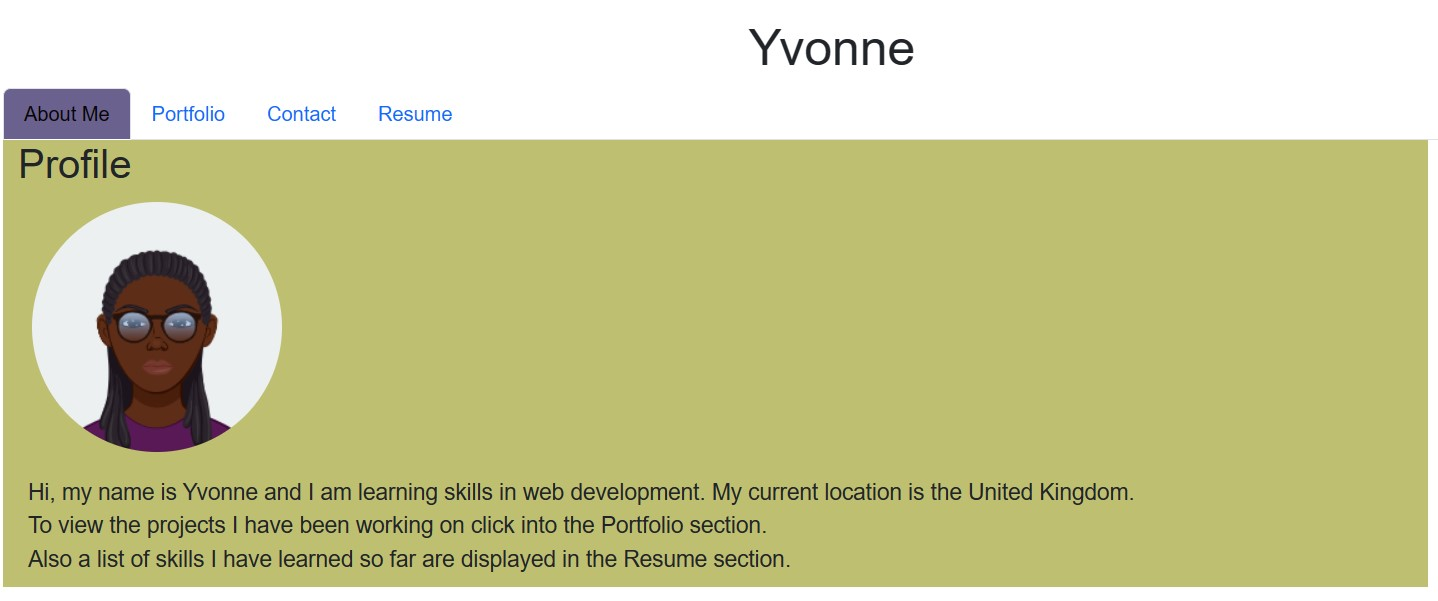
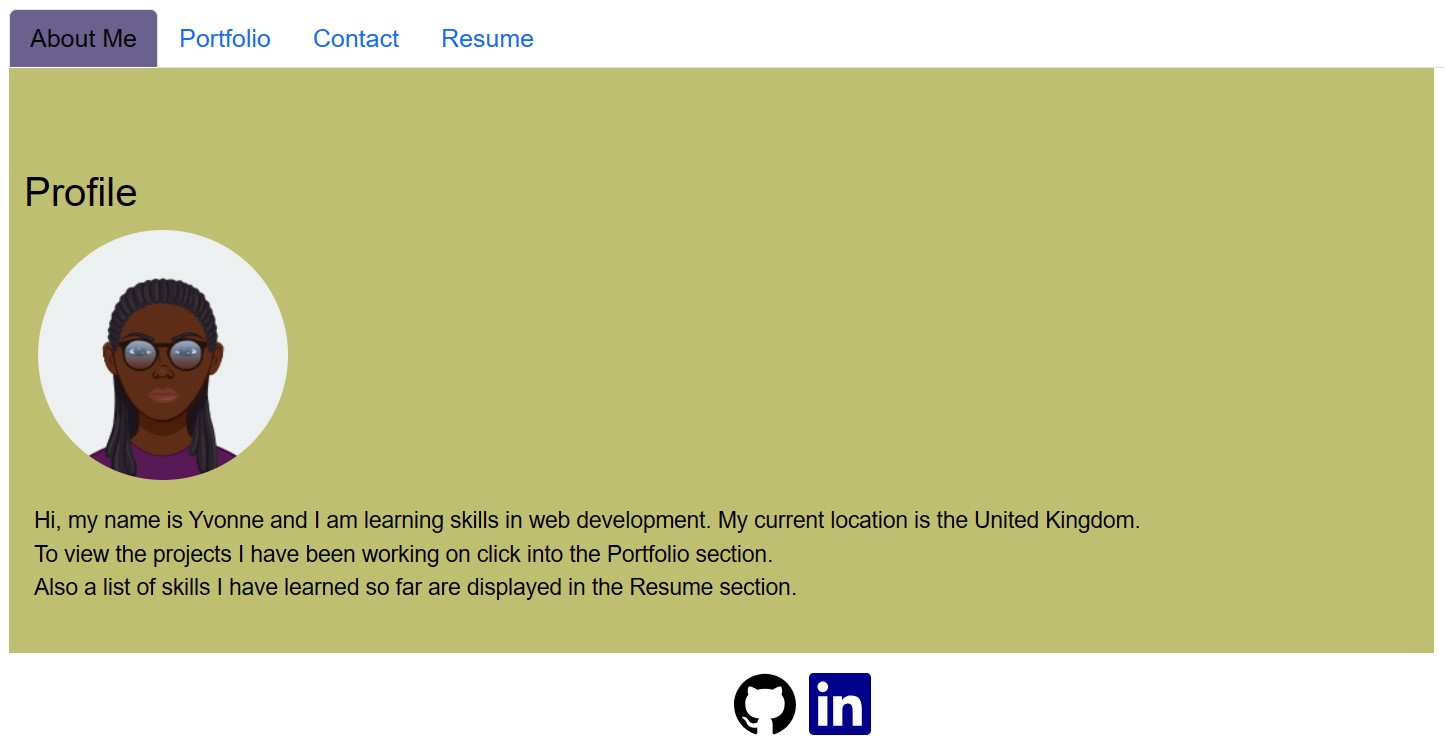
add styling and update README

diff --git a/src/components/App.css b/src/components/App.css
@@ -1,7 +1,6 @@
 .App {
   text-align: left;
   margin: 1.5rem;
-  margin-bottom: 100px;
   font-family: sans-serif;
 }
 
@@ -17,15 +16,18 @@
 }
 
 .App-header {
-  background-color: #282c34;
+  background-color: #7ea24d;
   min-height: 100vh;
   display: flex;
-  flex-direction: column;
+  flex-direction: row;
+  flex-wrap: wrap;
   align-items: center;
   justify-content: center;
-  font-size: calc(10px + 2vmin);
+  font-size: 20px;
   color: white;
-  margin: 1rem;
+  padding: 0.5rem;
+  padding-top: 1.25rem;
+  padding-bottom: 1.25rem;
 }
 
 .App-link {
@@ -65,12 +67,12 @@ p {
 }
 
 .FooterLinks {
-  margin-left: 10px;
-  padding: 10px;
-  position: fixed;
+  padding: 1rem;
+  position: absolute;
   bottom: 0;
-  left: 20px;
-  width:75%;
+  left: 0;
+  right: 0;
+  background-color:white;
 }
 
 .col {
@@ -80,16 +82,11 @@ p {
 
 .container, .Projects {
   background-color:rgb(191, 191, 112);
-  width: 100%;
+  padding-bottom: 5rem;
 }
 
 .about {
   margin: 0 !important;
-}
-
-.contact {
-  padding-bottom: 20px;
-  margin-bottom: 200px;
 }
 
 .project__img {
@@ -108,4 +105,12 @@ p {
   column-gap: 10px;
   justify-content: center;
 
+}
+
+.buttonSize {
+  margin-left: 8px;
+}
+
+.bg-secondary {
+  margin: 0.5rem;
 }

diff --git a/src/App.js b/src/App.js
@@ -3,14 +3,24 @@ import PortfolioContainer from "./components/PortfolioContainer";
 import "./components/App.css";
 import Footer from "./components/Footer";
 import Header from "./components/Header";
+import Card from 'react-bootstrap/Card';
+import Container from 'react-bootstrap/Container';
 
 // Populates a header and footer on each page in the app
 const App = () => {
     return (
         <div className="App">
-            <Header/>
-            <PortfolioContainer />
-            <Footer/>
+            <header className="App-header">  
+                <Container fluid md>
+                    <Card className="mb-2" style = {{ color: "#000" }}>
+                        <Card.Body>
+                            <Header/>
+                            <PortfolioContainer />
+                            <Footer/>
+                        </Card.Body>
+                    </Card>
+                </Container>
+            </header>
         </div>
     )
 }

diff --git a/src/components/pages/Contact.js b/src/components/pages/Contact.js
@@ -1,9 +1,10 @@
 import React from 'react';
+import Button from 'react-bootstrap/Button'
 
 // Create contact form
 export default function Contact() {
   return (
-  <div className="container about contact" style={{marginBottom:"100px"}}>
+  <div className="container about" style={{marginBottom:"100px"}}>
   <h2>Contact</h2>
   <form target="_blank" action="" method="">
     <div className="form-group">
@@ -22,7 +23,7 @@ export default function Contact() {
         </div>
       </div>
     </div>
-    <button type="submit" className="btn btn-lg btn-dark btn-block">Submit Form</button>
+    <Button className="buttonSize">Submit Form</Button>
   </form>
   </div>
   )};

diff --git a/src/components/Footer.js b/src/components/Footer.js
@@ -1,14 +1,15 @@
 import React from 'react';
+import { SiGithub, SiLinkedin } from "react-icons/si";
 
 // Create a footer to display on all pages in the app
 const FooterLinks = [
     {
-        title: "GitHub",
+        title: <SiGithub size={50} color="black"/>,
         url: "https://github.com/SalmY001",
         className: "footer-links",
     },
     {
-    title: "LinkedIn",
+    title: <SiLinkedin size={50} color="darkblue"/>,
     url: "https://linkedin.com/in/yvonne-s-2a12446b",
     className: "footer-links",
     },

diff --git a/src/components/pages/Portfolio.js b/src/components/pages/Portfolio.js
@@ -17,10 +17,10 @@ export default function Portfolio() {
           key={project.id}>
             <div className="">
               <img src={project.image} alt="gallery"/>
-              <p className="">
+              <p className="mb-2 bg-secondary text-dark">
                 {project.title}
               </p>
-              <p className="">
+              <p className="h6">
                 {project.subtitle}
               </p>
             </div>

diff --git a/src/components/pages/Resume.js b/src/components/pages/Resume.js
@@ -25,6 +25,7 @@ export default function Resume() {
           download="Resume"
           target="_blank"
           rel="noreferrer"
+          className="h6"
           >
            Resume Document
            </a><br></br>

diff --git a/src/components/index.css b/src/components/index.css
@@ -7,6 +7,7 @@ body {
   -moz-osx-font-smoothing: grayscale;
   background-color:rgb(191, 191, 112);
   height:100vh !important;
+  width:100vw !important;
 }
 
 code {

diff --git a/README.md b/README.md
@@ -20,7 +20,7 @@ Create a React application that displays a portfolio of projects to showcase ski
 To install the required dependencies, run the following commands:
 
 npm install, npx create-react-app, npm install gh-pages,
-npm install bootstrap
+npm install bootstrap, npm install react-icons
 
 To start the application use the command:
 
@@ -47,11 +47,19 @@ Sources viewed to help in the development of the app include:
 
 https://react.dev/
 
+https://reactnative.dev/docs/colors
+
 https://www.npmjs.com/package/gh-pages
 
 https://getbootstrap.com/docs/4.0/getting-started/webpack/
 
 https://github.com/gitname/react-gh-pages
+
+https://react-icons.github.io/react-icons/icons?name=si
+
+https://stackoverflow.com/questions/43768629/how-to-scale-large-font-awesome-icons-from-the-react-icons-package
+
+https://stackoverflow.com/questions/39857425/react-page-keep-footer-at-the-bottom-of-the-page
 
 ## Questions
 
